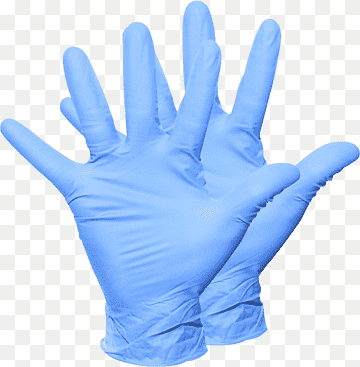
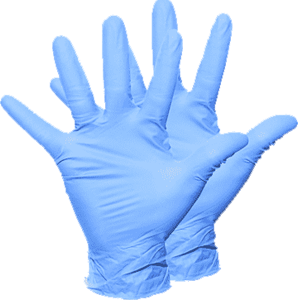
Updated imaging and hitboxes for menu and good items

diff --git a/covidcatch.py b/covidcatch.py
@@ -12,35 +12,39 @@ green = (17, 124, 47)
 blue = (0, 0, 255)
 
 #LoadingImages
-sanitizerPng = pygame.image.load("images/sanitizer.png")
-openhandsPng = pygame.image.load("images/openhands.png")
-glovesPng = pygame.image.load("images/gloves.png")
+sanitizerImg = pygame.image.load("images/sanitizer.png")
+sanitizerImg = pygame.transform.scale(sanitizerImg, (38, 50))
+glovesImg = pygame.image.load("images/gloves.png")
+glovesImg = pygame.transform.scale(glovesImg, (38, 45))
+maskImg = pygame.image.load("images/mask.png")
+maskImg = pygame.transform.scale(maskImg, (50, 35))
 sickpeoplePng = pygame.image.load("images/sickpeople.png")
-maskPng = pygame.image.load("images/mask.png")
+
+openhandsPng = pygame.image.load("images/openhands.png")
 facePng = pygame.image.load("images/face.png")
 facePng = pygame.transform.scale(facePng, (100, 100))
 openhandsPng = pygame.transform.scale(openhandsPng, (100, 100))
 
-sunImg = pygame.image.load("images/bgSunset1.png")
-dogImg = pygame.image.load("images/pixdogimage.png")
-clickedDogImg = pygame.image.load("images/clickeddog.png")
-dog2Img = pygame.image.load("images/dog2image.png")
-clickedDog2Img = pygame.image.load("images/clickeddog2.png")
-boneImg = pygame.image.load("images/boneimage.png")
-chocolateImg = pygame.image.load("images/chocolateimage.png")
-vacuumImg = pygame.image.load("images/vacuum.png")
+bgImg = pygame.image.load("images/bgCovid.png")
+selectText = pygame.image.load("images/choose-your-player.png")
 startImg = pygame.image.load("images/starticon.png")
 quitImg = pygame.image.load("images/quiticon.png")
 titleImg = pygame.image.load("images/titleicon.png")
 clickStartImg = pygame.image.load("images/clickedStartIcon.png")
 clickQuitImg = pygame.image.load("images/clickedQuitIcon.png")
-selectText = pygame.image.load("images/selectscreentext.png")
+
+chocolateImg = pygame.image.load("images/chocolateimage.png")
+vacuumImg = pygame.image.load("images/vacuum.png")
+
+
+
 
 #SettingFrame
 display_width = 800
 display_height = 600
 gameDisplay = pygame.display.set_mode((display_width, display_height))
-pygame.display.set_caption("Dodgin' Doggo")
+icon = pygame.display.set_icon(pygame.image.load('images/icon.png'))
+pygame.display.set_caption("COVIDcatch")
 
 #SettingClock
 clock = pygame.time.Clock()
@@ -50,8 +54,9 @@ playerparms = []
 # dog1parms = [openhandsPng, 5, 377, 450, 36, 30, 1.1]
 # dog2parms = [facePng,3.5,380,510,30,25, 1.02]
 
-dog1parms = [openhandsPng, 5, 377, 450, 36, 30, 1.1]
-dog2parms = [facePng,3.5,380,510,30,25, 1.02]
+handsparms = [openhandsPng, 5, 512, 512, 36, 30, 1.1]
+faceparms = [facePng,5,512,512,30,50, 1.02]
+# p_img,speedIn,player_x,player_y,hitbox_x,hitbox_y,speedmultiplier
 
 #ButtonClass
 class Button:
@@ -94,10 +99,10 @@ class Background:
 
 # PlayerClass
 class Player:
-    def __init__(self,p_img,speedIn,dog_x,dog_y,hitbox_x,hitbox_y,speedmultiplier):
+    def __init__(self,p_img,speedIn,player_x,player_y,hitbox_x,hitbox_y,speedmultiplier):
         self.speed = speedIn
-        self.dog_x = dog_x
-        self.dog_y = dog_y
+        self.player_x = player_x
+        self.player_y = player_y
         self.p_img = p_img
         self.hitbox_x = hitbox_x
         self.hitbox_y = hitbox_y
@@ -179,8 +184,8 @@ def selectScreen():
 
         # dogSelect = Button2(dogImg, 280,260,40,150,clickedDogImg,278,226,dog1parms,game_loop)
         # dog2select = Button2(dog2Img,480,260,40,100, clickedDog2Img,479,239,dog2parms,game_loop)
-        openhandsSelect = Button2(openhandsPng, 280, 260, 40, 150, openhandsPng, 278, 226, dog1parms, game_loop)
-        faceSelect = Button2(facePng, 480, 260, 40, 100, facePng, 479, 239, dog2parms, game_loop)
+        openhandsSelect = Button2(openhandsPng, 280, 260, 200, 200, openhandsPng, 278, 226, handsparms, game_loop)
+        faceSelect = Button2(facePng, 480, 260, 200, 200, facePng, 479, 239, faceparms, game_loop)
 
         pygame.display.update()
         clock.tick(15)
@@ -188,8 +193,13 @@ def selectScreen():
 #MainGame
 def game_loop():
 #CreatingObjects
-    dog = Player(playerparms[0],playerparms[1],playerparms[2],playerparms[3],playerparms[4],playerparms[5],playerparms[6])
-    bone = Gameobject(boneImg, 5, random.randrange(0, display_width - 20),-600,40,35)
+# b_image, speed, coord_x, coord_y, hitbox_x, hitbox_y
+    player = Player(playerparms[0],playerparms[1],playerparms[2],playerparms[3],playerparms[4],playerparms[5],playerparms[6])
+
+    gloves = Gameobject(glovesImg, 5, random.randrange(0, display_width - 20),-600,40,35)
+    sanitizer = Gameobject(sanitizerImg, 5, random.randrange(0, display_width - 20), -600, 40, 35)
+    mask = Gameobject(maskImg, 5, random.randrange(0, display_width - 20), -600, 40, 35)
+
     chocolate1 = Gameobject(chocolateImg, 3, random.randrange(0, display_width - 20),-600,40,35)
     chocolate2 = Gameobject(chocolateImg, 3, random.randrange(0, display_width - 20),-1000,40,35)
     vacuum = Gameobject(vacuumImg, 4, random.randrange(0, display_width - 20),random.randrange(-2000, -1000),55,100)
@@ -203,14 +213,17 @@ def game_loop():
 
 #Background
         gameDisplay.fill(white)
-        bg = Background(sunImg, 0, 0)
+        bg = Background(bgImg, 0, 0)
 # Objects
-        gameDisplay.blit(bone.b_image, (bone.coord_x, bone.coord_y))
+        gameDisplay.blit(gloves.b_image, (gloves.coord_x, gloves.coord_y))
+        gameDisplay.blit(sanitizer.b_image, (sanitizer.coord_x, sanitizer.coord_y))
+        gameDisplay.blit(mask.b_image, (mask.coord_x, mask.coord_y))
+
         gameDisplay.blit(chocolate1.b_image, (chocolate1.coord_x, chocolate1.coord_y))
         gameDisplay.blit(chocolate2.b_image, (chocolate2.coord_x, chocolate2.coord_y))
         gameDisplay.blit(vacuum.b_image, (vacuum.coord_x, vacuum.coord_y))
 #Player
-        gameDisplay.blit(dog.p_img, (dog.dog_x,dog.dog_y))
+        gameDisplay.blit(player.p_img, (player.player_x,player.player_y))
 
 #Events
         for event in pygame.event.get():
@@ -218,20 +231,23 @@ def game_loop():
                 pygame.QUIT()
                 quit()
             if event.type == pygame.KEYDOWN:
-                if event.key == pygame.K_LEFT and dog.dog_x > 0:
-                    x_change = dog.speed*-1 + -1*dog.speedmult*score
-                elif event.key == pygame.K_RIGHT and dog.dog_x < display_width - 45:
-                    x_change = dog.speed + dog.speedmult*score
+                if event.key == pygame.K_LEFT and player.player_x > 0:
+                    x_change = player.speed*-1 + -1*player.speedmult*score
+                elif event.key == pygame.K_RIGHT and player.player_x < display_width - 45:
+                    x_change = player.speed + player.speedmult*score
             if event.type == pygame.KEYUP:
                 if event.key == pygame.K_LEFT or event.key == pygame.K_RIGHT:
                     x_change = 0
 
-        dog.dog_x += x_change
+        player.player_x += x_change
 
         # print(event)
 
 # ObjectSpeeds
-        bone.coord_y += bone.speed
+        gloves.coord_y += gloves.speed
+        sanitizer.coord_y += sanitizer.speed
+        mask.coord_y += mask.speed
+
         chocolate1.coord_y += chocolate1.speed + 1.2 * score
         chocolate2.coord_y += chocolate1.speed + 1.2 * score
         vacuum.coord_y += vacuum.speed
@@ -239,13 +255,20 @@ def game_loop():
         # vac_y += 10
 
 # Boundaries
-        if dog.dog_x > display_width - dog.hitbox_x or dog.dog_x < 0:
+        if player.player_x > display_width - player.hitbox_x or player.player_x < 0:
             x_change = 0
 
 # RecallingObjects
-        if bone.coord_y > display_height:
-            bone.coord_y = -10
-            bone.coord_x = random.randrange(0, display_width - 25)
+        if gloves.coord_y > display_height:
+            gloves.coord_y = -10
+            gloves.coord_x = random.randrange(0, display_width - 25)
+        if sanitizer.coord_y > display_height:
+            sanitizer.coord_y = -10
+            sanitizer.coord_x = random.randrange(0, display_width - 25)
+        if mask.coord_y > display_height:
+            mask.coord_y = -10
+            mask.coord_x = random.randrange(0, display_width - 25)
+
         if chocolate1.coord_y > display_height - 10:
             chocolate1.coord_y = -10
             chocolate1.coord_x = random.randrange(0, display_width - 25)
@@ -260,22 +283,37 @@ def game_loop():
 
 # Collisons
     # Choc
-        if dog.dog_y < chocolate1.coord_y + chocolate1.hitbox_y and dog.dog_y > chocolate1.coord_y or dog.dog_y + dog.hitbox_y > chocolate1.coord_y and dog.dog_y + dog.hitbox_y < chocolate1.coord_y + chocolate1.hitbox_y:
-            if dog.dog_x > chocolate1.coord_x and dog.dog_x < chocolate1.coord_x + chocolate1.hitbox_x or dog.dog_x + dog.hitbox_x > chocolate1.coord_x and dog.dog_x + dog.hitbox_x < chocolate1.coord_x + chocolate1.hitbox_x:
+        if player.player_y < chocolate1.coord_y + chocolate1.hitbox_y and player.player_y > chocolate1.coord_y or player.player_y + player.hitbox_y > chocolate1.coord_y and player.player_y + player.hitbox_y < chocolate1.coord_y + chocolate1.hitbox_y:
+            if player.player_x > chocolate1.coord_x and player.player_x < chocolate1.coord_x + chocolate1.hitbox_x or player.player_x + player.hitbox_x > chocolate1.coord_x and player.player_x + player.hitbox_x < chocolate1.coord_x + chocolate1.hitbox_x:
                 crash("Oh no! Doggo got sick")
                 # Choc2
-        if dog.dog_y < chocolate2.coord_y + chocolate2.hitbox_y and dog.dog_y > chocolate2.coord_y or dog.dog_y + dog.hitbox_y > chocolate2.coord_y and dog.dog_y + dog.hitbox_y < chocolate2.coord_y + chocolate2.hitbox_y:
-            if dog.dog_x > chocolate2.coord_x and dog.dog_x < chocolate2.coord_x + chocolate2.hitbox_x or dog.dog_x + dog.hitbox_x > chocolate2.coord_x and dog.dog_x + dog.hitbox_x < chocolate2.coord_x + chocolate2.hitbox_x:
+        if player.player_y < chocolate2.coord_y + chocolate2.hitbox_y and player.player_y > chocolate2.coord_y or player.player_y + player.hitbox_y > chocolate2.coord_y and player.player_y + player.hitbox_y < chocolate2.coord_y + chocolate2.hitbox_y:
+            if player.player_x > chocolate2.coord_x and player.player_x < chocolate2.coord_x + chocolate2.hitbox_x or player.player_x + player.hitbox_x > chocolate2.coord_x and player.player_x + player.hitbox_x < chocolate2.coord_x + chocolate2.hitbox_x:
                 crash("Oh no! Doggo got sick!")
     # Vacuum
-        if dog.dog_y < vacuum.coord_y + vacuum.hitbox_y:
-            if dog.dog_x > vacuum.coord_x and dog.dog_x < vacuum.coord_x + vacuum.hitbox_x or dog.dog_x + dog.hitbox_x > vacuum.coord_x and dog.dog_x + dog.hitbox_x < vacuum.coord_x + vacuum.hitbox_x:
+        if player.player_y < vacuum.coord_y + vacuum.hitbox_y:
+            if player.player_x > vacuum.coord_x and player.player_x < vacuum.coord_x + vacuum.hitbox_x or player.player_x + player.hitbox_x > vacuum.coord_x and player.player_x + player.hitbox_x < vacuum.coord_x + vacuum.hitbox_x:
                 crash("Oh no! Doggo got spooked!")
-    # Bone
-        if dog.dog_y < bone.coord_y + bone.hitbox_y and dog.dog_y > bone.coord_y or dog.dog_y + dog.hitbox_y > bone.coord_y and dog.dog_y + dog.hitbox_y < bone.coord_y + bone.hitbox_y:
-            if dog.dog_x > bone.coord_x and dog.dog_x < bone.coord_x + bone.hitbox_x or dog.dog_x + dog.hitbox_x > bone.coord_x and dog.dog_x + dog.hitbox_x < bone.coord_x + bone.hitbox_x:
-                bone.coord_y = -10
-                bone.coord_x = random.randrange(0, display_width - 25)
+
+    # Gloves
+        if player.player_y < gloves.coord_y + gloves.hitbox_y and player.player_y > gloves.coord_y or player.player_y + player.hitbox_y > gloves.coord_y and player.player_y + player.hitbox_y < gloves.coord_y + gloves.hitbox_y:
+            if player.player_x > gloves.coord_x and player.player_x < gloves.coord_x + gloves.hitbox_x or player.player_x + player.hitbox_x > gloves.coord_x and player.player_x + player.hitbox_x < gloves.coord_x + gloves.hitbox_x:
+                gloves.coord_y = -10
+                gloves.coord_x = random.randrange(0, display_width - 25)
+                score += 1
+                print(score)
+    # Sanitizer
+        if player.player_y < sanitizer.coord_y + sanitizer.hitbox_y and player.player_y > sanitizer.coord_y or player.player_y + player.hitbox_y > sanitizer.coord_y and player.player_y + player.hitbox_y < sanitizer.coord_y + sanitizer.hitbox_y:
+            if player.player_x > sanitizer.coord_x and player.player_x < sanitizer.coord_x + sanitizer.hitbox_x or player.player_x + player.hitbox_x > sanitizer.coord_x and player.player_x + player.hitbox_x < sanitizer.coord_x + sanitizer.hitbox_x:
+                sanitizer.coord_y = -10
+                sanitizer.coord_x = random.randrange(0, display_width - 25)
+                score += 1
+                print(score)
+    # Mask
+        if player.player_y < mask.coord_y + mask.hitbox_y and player.player_y > mask.coord_y or player.player_y + player.hitbox_y > mask.coord_y and player.player_y + player.hitbox_y < mask.coord_y + mask.hitbox_y:
+            if player.player_x > mask.coord_x and player.player_x < mask.coord_x + mask.hitbox_x or player.player_x + player.hitbox_x > mask.coord_x and player.player_x + player.hitbox_x < mask.coord_x + mask.hitbox_x:
+                mask.coord_y = -10
+                mask.coord_x = random.randrange(0, display_width - 25)
                 score += 1
                 print(score)
 
